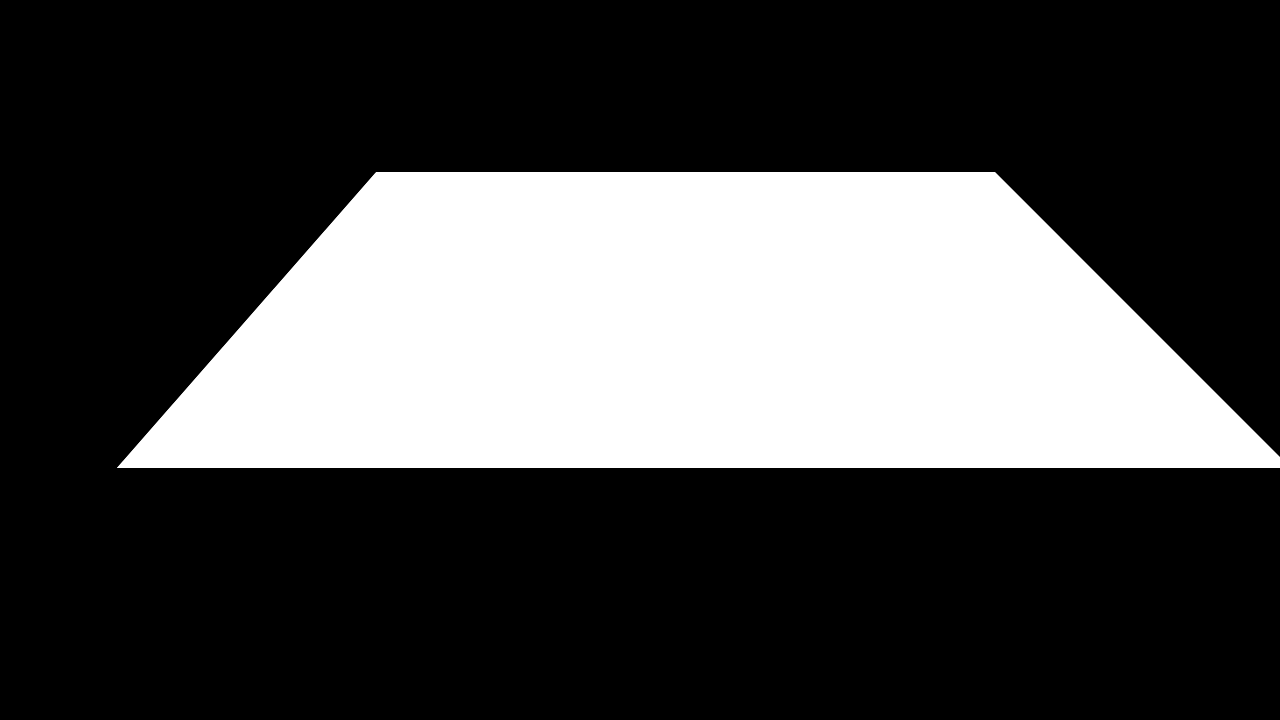
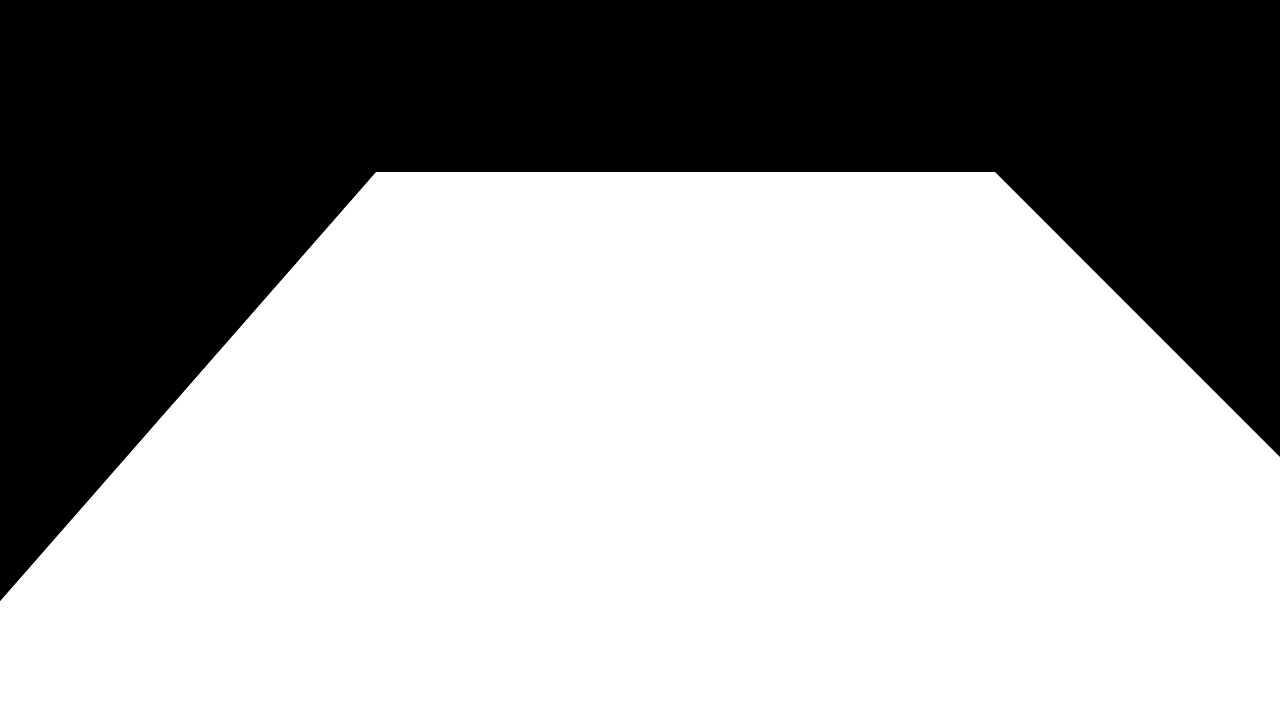
Dodanie licznika samochodow

diff --git a/car_capture.py b/car_capture.py
@@ -1,8 +1,10 @@
 from ultralytics import YOLO
 import cv2
 import math 
+import cvzone
+from sort import *
 
-cap = cv2.VideoCapture('b1.mp4')
+cap = cv2.VideoCapture('cars.mp4')
 
 model = YOLO("yolo-Weights/yolov8n.pt")
 
@@ -19,43 +21,64 @@ classNames = ["person", "bicycle", "car", "motorbike", "aeroplane", "bus", "trai
               "teddy bear", "hair drier", "toothbrush"
               ]
 
+mask = cv2.imread("mask.png")
+
+#Tracking
+tracker = Sort(max_age=20, min_hits=3, iou_threshold=0.3)
+limits = [230, 400, 1120, 405]
+total_counts = []
 
 while True:
     success, img = cap.read()
-    results = model(img, stream=True)
+    img_region = cv2.bitwise_and(img, mask)
+    results = model(img_region, stream=True)
+    detections = np.empty((0, 5))
 
-    # coordinates
     for r in results:
         boxes = r.boxes
-
         for box in boxes:
+            x1, y1, x2, y2 = box.xyxy[0]
+            x1, y1, x2, y2 = int(x1), int(y1), int(x2), int(y2)
 
-            # confidence
-            confidence = math.ceil((box.conf[0]*100))/100
-            print("Confidence --->",confidence)
+            w, h = x2 - x1, y2 - y1
 
-            # class name
+            conf = math.ceil((box.conf[0] * 100)) / 100
+
             cls = int(box.cls[0])
-            if classNames[cls] == "car":
-                x1, y1, x2, y2 = box.xyxy[0]
-                x1, y1, x2, y2 = int(x1), int(y1), int(x2), int(y2) # convert to int values
 
-                # put box in cam
-                cv2.rectangle(img, (x1, y1), (x2, y2), (255, 0, 255), 3)
-                print("car")
+            current_class = classNames[cls]
 
-                # object details
-                org = [x1, y1]
-                font = cv2.FONT_HERSHEY_SIMPLEX
-                fontScale = 1
-                color = (255, 0, 0)
-                thickness = 2
+            if current_class == 'car' or current_class == 'truck' or current_class == 'bus' or current_class == 'motorbike' and conf > 0.6: 
+                # cvzone.cornerRect(img, (x1, y1, w, h), l=15, rt=5)
+                current_array = np.array([x1, y1, x2, y2, conf])
+                detections = np.vstack((detections, current_array))
 
-                cv2.putText(img, classNames[cls], org, font, fontScale, color, thickness)
-                
+    results_tracker = tracker.update(detections)
 
-    cv2.imshow('Car cam', img)
-    if cv2.waitKey(1) == ord('q'):
+    cv2.line(img, (limits[0], limits[1]), (limits[2], limits[3]), (0, 0, 255), 5)
+
+    for result in results_tracker:
+        x1, y1, x2, y2, id = result
+        x1, y1, x2, y2 = int(x1), int(y1), int(x2), int(y2)
+        print(result)
+        cvzone.cornerRect(img, (x1, y1, w, h), l=15, rt=2, colorR=(255, 0, 255))
+        cvzone.putTextRect(img, f"{int(id)}", (max(0, x1), max(35, y1)), scale=2, thickness=3, offset=8)
+
+        cx, cy = x1 + w // 2, y1 + h // 2 
+        cv2.circle(img, (cx, cy), 5, (255, 0, 255), cv2.FILLED)
+
+        if limits[0] < cx < limits[2] and limits[1] - 30 < cy < limits[1] + 30:
+            if total_counts.count(id) == 0:
+                total_counts.append(id)
+                cv2.line(img, (limits[0], limits[1]), (limits[2], limits[3]), (0, 255, 0), 5)
+        
+        cvzone.putTextRect(img, f"Counts: {len(total_counts)}", (50, 50))
+
+
+    cv2.imshow("img", img)
+    # cv2.imshow("img_region", img_region)
+    key = cv2.waitKey(0)
+    if key == 27:
         break
 
 cap.release()
